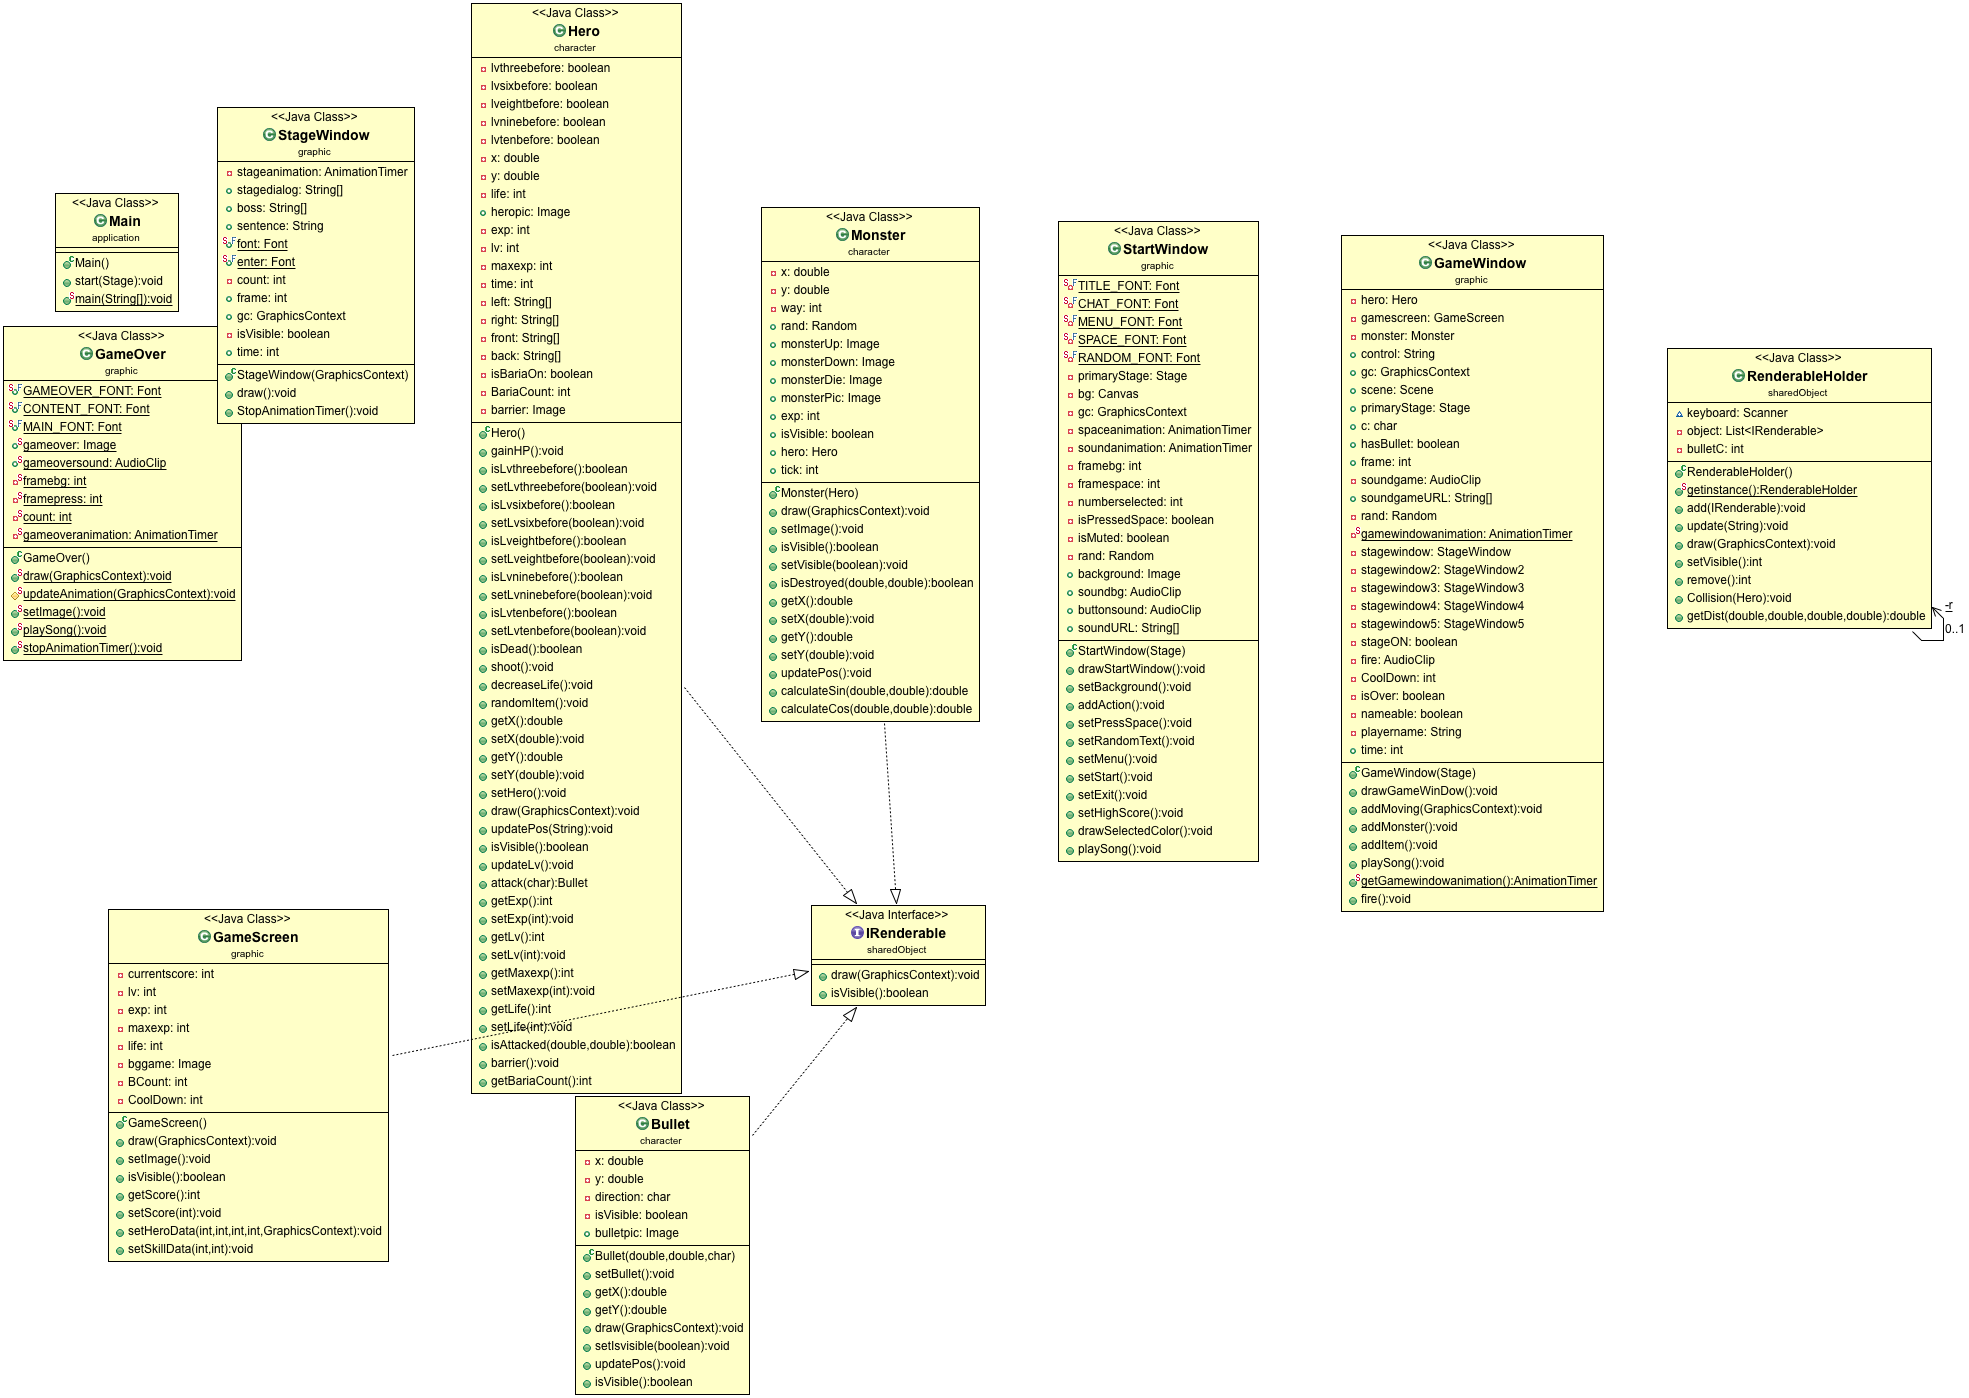
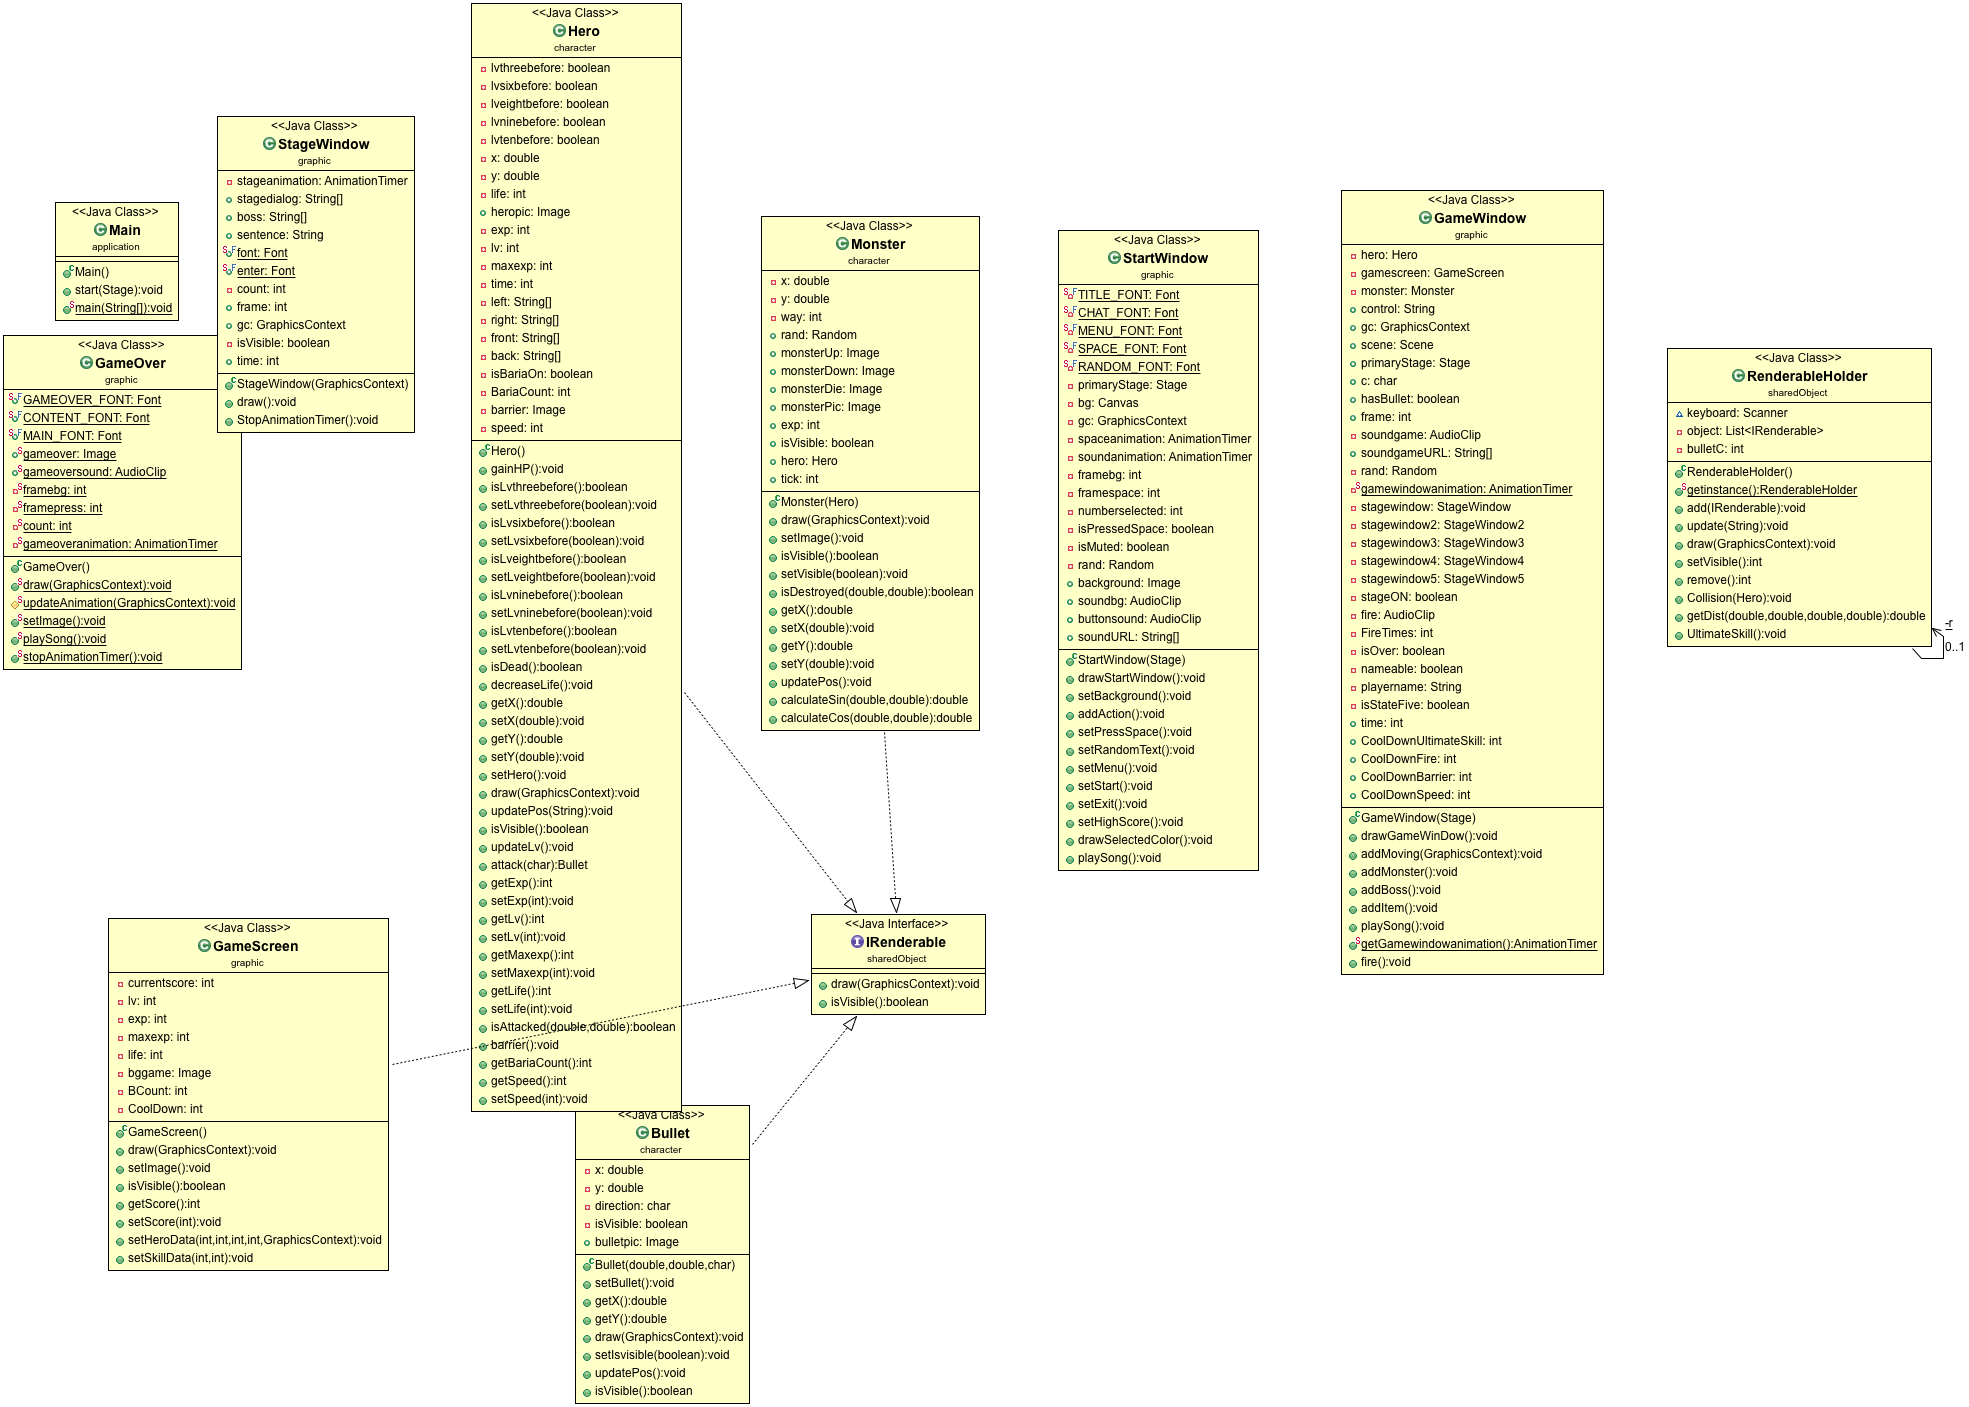
A

diff --git a/src/graphic/GameWindow.java b/src/graphic/GameWindow.java
@@ -2,6 +2,7 @@ package graphic;
 
 import java.util.Random;
 
+import character.Boss;
 import character.Heart;
 import character.Hero;
 import character.Item;
@@ -46,6 +47,7 @@ public class GameWindow extends Canvas{
 	private boolean isOver = false;
 	private boolean nameable = false;
 	private String playername= "";
+	private boolean isStateFive = false;
 	public int time;
 	public int CoolDownUltimateSkill;
 	public int CoolDownFire;
@@ -94,7 +96,7 @@ public class GameWindow extends Canvas{
 
 			if ((frame%600)<500)
 				{
-					if (frame%60 ==0 )addMonster();
+					if (frame%60 ==0 && !isStateFive)addMonster();
 					if(frame %300==0)addItem();
 				}
 			
@@ -152,6 +154,7 @@ public class GameWindow extends Canvas{
 					gamewindowanimation.stop();
 					stagewindow5.draw();
 					stageON = true;
+					addBoss();
 				}
 				
 				if (hero.getLife()==0) {
@@ -215,8 +218,7 @@ public class GameWindow extends Canvas{
 				
 			}
 			if (KeyEvent.getCode() == KeyCode.SPACE) {
-				
-				if (!isOver) {
+				if (!isOver && !stageON) {
 					fire.play();
 					hero.attack(c);
 				}
@@ -246,88 +248,20 @@ public class GameWindow extends Canvas{
 			}
 			}
 			if(KeyEvent.getCode() == KeyCode.D) {
-<<<<<<< HEAD
-||||||| merged common ancestors
-<<<<<<< HEAD
-=======
-<<<<<<< HEAD
 				if(CoolDownFire == 0) {FireTimes = 90;
 				CoolDownFire = 150;
 				}
-				
-				
-||||||| merged common ancestors
-				CoolDown = 90;
-=======
-<<<<<<< HEAD
->>>>>>> 72ca9fc54e67c1296220e465e1e1963a7cd4b05b
-				if (!isOver) {
-					if(CoolDown == 0) {
-					    fire.play();
-						hero.attack('s');
-						hero.attack('w');
-						hero.attack('d');
-						hero.attack('a');
-					CoolDown = 90;
-					}
-					if(CoolDown == 0) {
-					    fire.play();
-						hero.attack('s');
-						hero.attack('w');
-						hero.attack('d');
-						hero.attack('a');
-						CoolDown = 90;
-						}
-					CoolDown = 90;
-				}
-<<<<<<< HEAD
-||||||| merged common ancestors
-				
-||||||| merged common ancestors
-				if(CoolDown == 0)
-				{
-			    fire.play();
-				hero.attack('s');
-				hero.attack('w');
-				hero.attack('d');
-				hero.attack('a');
-				CoolDown = 90;
-				}
-=======
-				CoolDown = 90;
->>>>>>> c0ac071f8dee2930fbd4317c4d3ae896c9d99534
-=======
-				
-||||||| merged common ancestors
-				if(CoolDown == 0)
-				{
-			    fire.play();
-				hero.attack('s');
-				hero.attack('w');
-				hero.attack('d');
-				hero.attack('a');
-				CoolDown = 90;
-				}
-=======
-				CoolDown = 90;
->>>>>>> c0ac071f8dee2930fbd4317c4d3ae896c9d99534
->>>>>>> 637b776e94123b97ec51196f68360d947f25e32f
->>>>>>> 72ca9fc54e67c1296220e465e1e1963a7cd4b05b
 			}
 			if(KeyEvent.getCode() == KeyCode.S) {
-<<<<<<< HEAD
 				if(CoolDownBarrier == 0) {
 					hero.barrier();
 					CoolDownBarrier = 300;
 				}
 				
-||||||| merged common ancestors
 				hero.barrier();
-=======
 				if (!isOver) {
 				hero.barrier();
 				}
->>>>>>> 637b776e94123b97ec51196f68360d947f25e32f
 			}
 			if (KeyEvent.getCode() == KeyCode.F) {
 				if(CoolDownUltimateSkill == 0 ) {
@@ -372,6 +306,10 @@ public class GameWindow extends Canvas{
 	public void addMonster() {
 		monster = new Monster(hero);
 		RenderableHolder.getinstance().add(monster);
+	}
+	public void addBoss() {
+		Boss boss = new Boss(hero);
+		RenderableHolder.getinstance().add(boss);
 	}
 	public void addItem() {
 		// TODO Auto-generated method stub

diff --git a/src/character/Boss.java b/src/character/Boss.java
@@ -1,6 +1,8 @@
 package character;
 
+import graphic.GameWin;
 import javafx.scene.canvas.GraphicsContext;
+import javafx.scene.image.Image;
 import sharedObject.IRenderable;
 
 public class Boss extends Monster implements IRenderable {
@@ -8,13 +10,42 @@ public class Boss extends Monster implements IRenderable {
 	private String[] right = {"bossright1.png","bossright2.png","bossright3.png","bossright4.png"};
 	private String[] front = {"bossfront1.png","bossfront2.png","bossfront3.png","bossfront4.png"};
 	private String[] back = {"bossback1.png","bossback2.png","bossback3.png","bossback4.png"};
+	private double x ;  //=center;
+	private double y; //=center;
+	private int life = 10;
+	public Image bosspic;
+	private int time = 0;
 	public Boss(Hero hero) {
 		super(hero);
 		// TODO Auto-generated constructor stub
 	}
 	public void draw(GraphicsContext gc) {
+		time++;
+		if(time>=30) time = 0; 
+		gc.drawImage(bosspic, x, y);
+		
 		
 	}
+	public void updatePos() {
+		x+= 1.5*(calculateCos(hero.getX(),hero.getY()));
+		y+= 1.5*(calculateSin(hero.getX(),hero.getY()));
+		if (x<hero.getX()) {
+			
+		}
+		boolean IsHeroAttacked;
+		IsHeroAttacked = hero.isAttacked(x, y);
+		if(IsHeroAttacked) life--;
+		if (life==0) {
+			isVisible = false;
+			GameWin gamewin = new GameWin();
+		}
+		
+	}
+	@Override
+	public boolean isVisible() {
+		return true;
+	}
+
 	
 }
                  

diff --git a/src/character/Heart.java b/src/character/Heart.java
@@ -1,13 +1,20 @@
 package character;
 
+import java.util.ArrayList;
+import java.util.List;
+
 import javafx.scene.canvas.GraphicsContext;
-import javafx.scene.paint.Color;
+import javafx.scene.image.Image;
 import sharedObject.IRenderable;
 
 public class Heart extends Item implements IRenderable {
-
+	private int n =0;
+	public List<Image> image = new ArrayList<>();
 	public Heart() {
-		super();
+		for (int i=0; i<16; i++) {
+			Image item = new Image("frame"+i+".png",40,40,false,false);
+			image.add(item);
+		}
 		
 	}
 	@Override
@@ -18,9 +25,9 @@ public class Heart extends Item implements IRenderable {
 	@Override
 	public void draw(GraphicsContext gc) {
 		// TODO Auto-generated method stub
-		gc.setFill(Color.AQUA);
-		gc.fillRect(this.x, this.y, 20, 20);
-
+			gc.drawImage(image.get(n), x, y);
+		n++;
+		if (n>=15) n=0;
 	}
 
 	@Override

diff --git a/src/graphic/StageWindow.java b/src/graphic/StageWindow.java
@@ -1,13 +1,10 @@
  package graphic;
 
 import javafx.animation.AnimationTimer;
-import javafx.scene.canvas.Canvas;
 import javafx.scene.canvas.GraphicsContext;
 import javafx.scene.image.Image;
-import javafx.scene.input.KeyCode;
 import javafx.scene.paint.Color;
 import javafx.scene.text.Font;
-import sharedObject.IRenderable;
 
 public class StageWindow {
 	private AnimationTimer stageanimation;

diff --git a/src/character/Hero.java b/src/character/Hero.java
@@ -33,6 +33,7 @@ public class Hero implements IRenderable {
 		this.x = 400;
 		this.y = 225;
 		setHero();
+		
 	}
 	public void gainHP() {
 		this.life+=1;
@@ -73,14 +74,8 @@ public class Hero implements IRenderable {
 		if (life==0) return true;
 		return false;
 	}
-	public void shoot() {
-		
-	}
 	public void decreaseLife() {
 		life--;
-		
-	}
-	public void randomItem() {
 		
 	}
 

diff --git a/src/graphic/GameWin.java b/src/graphic/GameWin.java
@@ -1,0 +1,5 @@
+package graphic;
+
+public class GameWin {
+
+}
